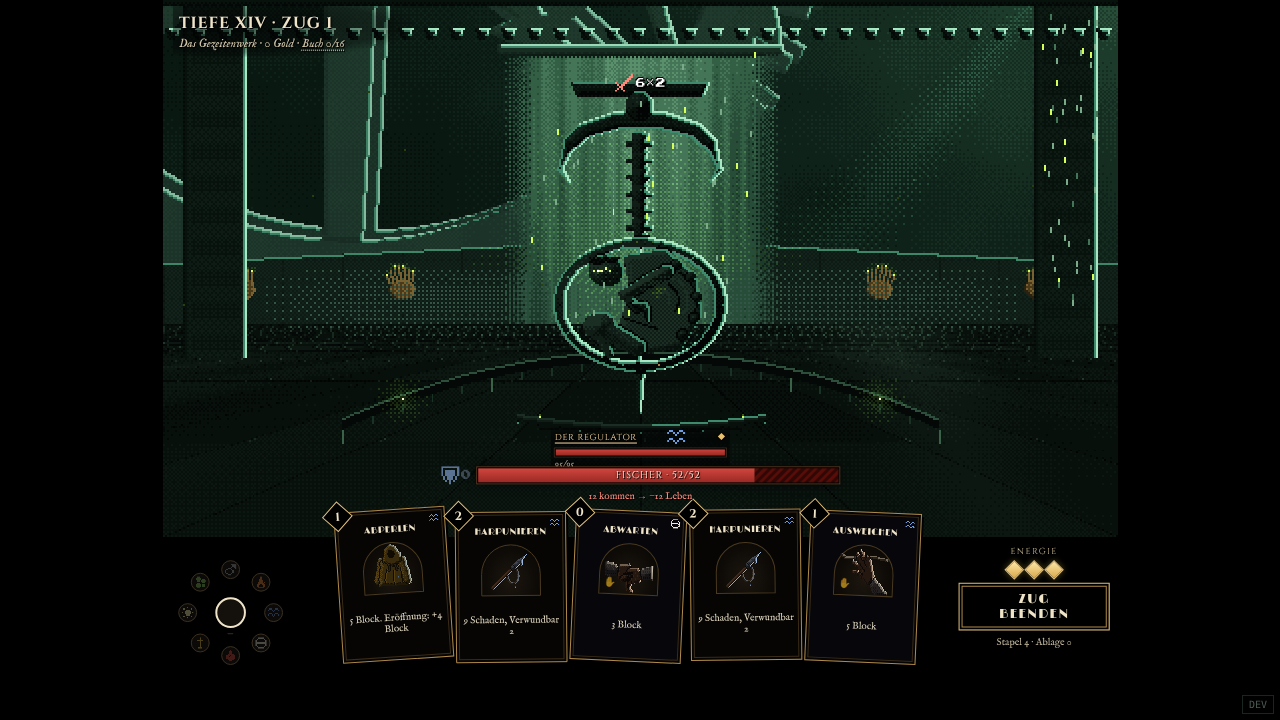
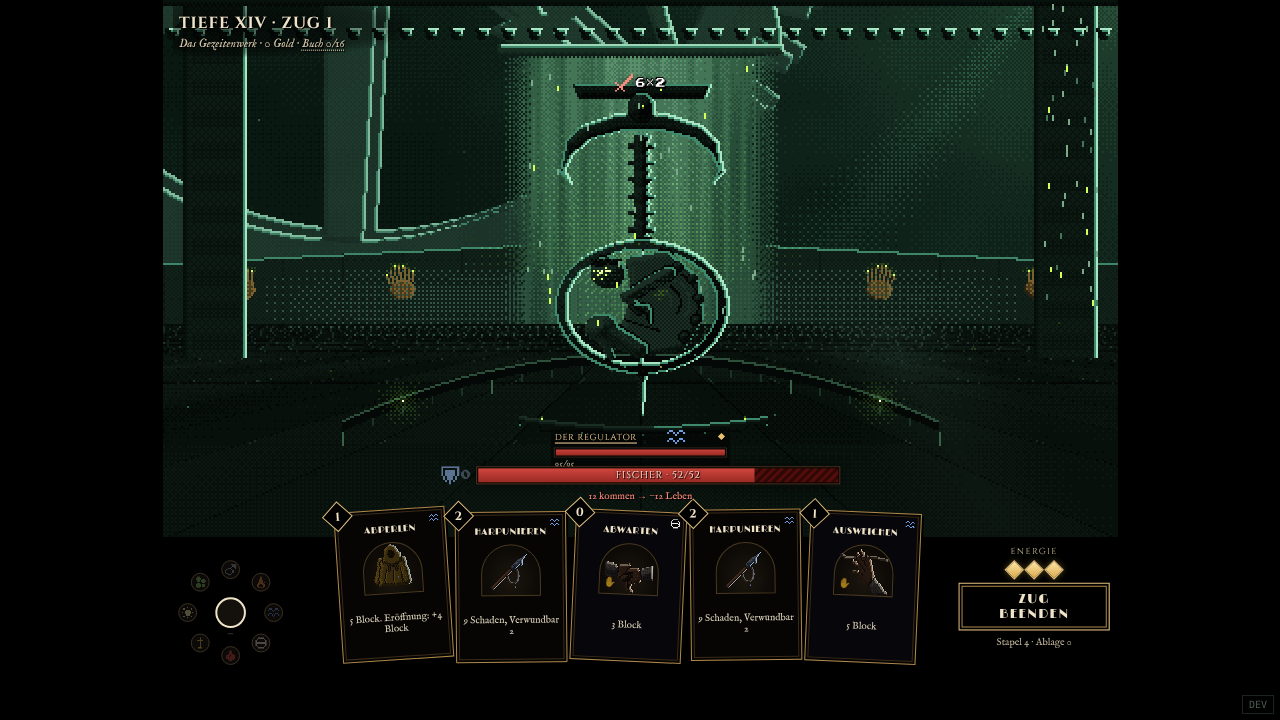
Kern: Pendel-Gegner (schwingt zwischen zwei Reihen, gleitet weich), Format ergänzt
Claude-Session: https://claude.ai/code/session_01TghvEfjLh3w7y1uAeKR46M

diff --git a/prototype/js/core/combat.js b/prototype/js/core/combat.js
@@ -12,7 +12,7 @@ function mkEnemy(id,i){const f0=FOES[id];if(!f0)throw new Error('Unbekannter Geg
  const tief=(f.rang||'normal')==='normal';const sc=(tief?1+BAL.enemy_scaling.hp_per_depth*(d-1):1)*(1+ST2.hp_je_stufe*st),as=(tief?Math.floor((d-1)/BAL.enemy_scaling.atk_every_n_depths):0)+(st>=2?Math.floor(st/ST2.atk_alle_n_stufen):0);const hp=Math.round(f.hp*sc*(tief?(BAL.enemy_scaling.hp_faktor||1):(BAL.enemy_scaling.waechter_faktor||1)));
  const r=rs('kampf');
  return{uid:++uidc,id,n:f.n,spr:f.spr||f.sprite||id,variant:f.variant,sprite:f.rang==='boss'?(f.sprite||null):f.varianten?r.pick(f.varianten):(f.sprite||null),rang:f.rang||'normal',weak:f.weak,hp,max:hp,block:0,str:0,burn:0,poison:0,weak2:0,
-  pi:f.rang==='boss'||f.rang==='waechter'?0:Math.floor(r.next()*f.pat.length),as,pat:f.pat.map(p=>({...p,v:p.t==='atk'?Math.max(1,Math.round(p.v*(BAL.enemy_scaling.atk_faktor||1)))+as:p.v})),besonders:f.besonders||null,kniff:f.kniff||null,kniffe:f.kniffe||null,vuln:0,phase:0,turns:0,...kniffMuster(f,as)};}
+  pi:f.rang==='boss'||f.rang==='waechter'?0:Math.floor(r.next()*f.pat.length),as,pat:f.pat.map(p=>({...p,v:p.t==='atk'?Math.max(1,Math.round(p.v*(BAL.enemy_scaling.atk_faktor||1)))+as:p.v})),besonders:f.besonders||null,kniff:f.kniff||null,kniffe:f.kniffe||null,pendel:!!f.pendel,vuln:0,phase:0,turns:0,...kniffMuster(f,as)};}
 // „Der, der vor dir kam“ (Ufer unten): Figur und Items deines letzten verlorenen Runs (Meta), sonst eine Figur per Seed.
 // Sein Muster sind seine besten Karten, verstärkt (f.atk_faktor); die Beute ist eines seiner Items.
 function vorgaengerDef(f){const r=rs('kampf');let v=typeof Meta!=='undefined'&&!S.dev?Meta.get().vorgaenger:null;
@@ -244,7 +244,10 @@ function endTurn(){
   Bus.emit('changed');wait(680,step);
  };wait(300,step);}
 // Besonderheiten der Wächter und des Bosses nach dem Gegnerzug
-function specials(){for(const en of alive()){const b=en.besonders;if(!b)continue;
+function specials(){for(const en of alive()){
+ // Pendel (Regulator): schwingt jeden Zug auf die andere Seite und zwischen zwei Tiefenreihen
+ if(en.pendel){const l=en.turns%2===1;en.x=l?.3:.7;en.reihe=l?1:2;Bus.emit('kniff',{e:en,why:`${en.n} schwingt nach ${l?'links hinten':'rechts vorn'}`});}
+ const b=en.besonders;if(!b)continue;
  if(b.art==='ruft'&&FOES[b.gegner]&&en.turns%(b.alle||3)===0&&alive().length<4){const add=mkEnemy(b.gegner);add.x=rs('aufstellung').pick([.16,.84,.3,.7]);add.reihe=rs('aufstellung').pick([0,1]);S.enemies.push(add);Bus.emit('enemy_spawn',{e:add,why:`${en.n} ruft ${add.n} (alle ${b.alle||3} Züge)`});}
  if(b.art==='schwach_wechsel'&&b.stoffe){en.weak=b.stoffe[en.turns%b.stoffe.length];Bus.emit('enemy_status',{e:en,status:'schwach',why:`${en.n} wechselt die Schwachstelle: jetzt ${ST[en.weak].n}`});}
  if(b.art==='phasen'&&b.ruft){const R2=typeof b.ruft==='string'?{gegner:b.ruft,alle:3,anzahl:1}:b.ruft;if(FOES[R2.gegner]&&en.phase>=1&&en.turns%(R2.alle||3)===0){for(let k=0;k<(R2.anzahl||1)&&alive().length<4;k++){const add=mkEnemy(R2.gegner);add.x=rs('aufstellung').pick([.14,.86,.28,.72]);add.reihe=0;S.enemies.push(add);Bus.emit('enemy_spawn',{e:add,why:`${en.n} ruft ${add.n} (Phase ${en.phase+1}, alle ${R2.alle||3} Züge)`});}}}}}

diff --git a/tools/icons/lib.js b/tools/icons/lib.js
@@ -60,13 +60,15 @@ const LICHT = {
 };
 
 // Palette eines Bildes: 0 leer; je Material 6 Farben (k0..k3, r1, r2); dann Lichter; dann Akzente a/b (4 Stufen + hell)
-function palette(st = [], rar = 'gewoehnlich') {
+// opt.hg: Handgriff-Bilder sind Szenen auf dunklem Grund: wärmere, hellere Haut und kräftigeres Randlicht in der Familienfarbe
+const HAUT_HG = { body: ['#160d08', '#2b190e', '#45291a', '#653f26'], hell: '#ffd4a4' };
+function palette(st = [], rar = 'gewoehnlich', opt = {}) {
   const glanzA = stoffFarbe(st[0]), glanzB = stoffFarbe(st[1] || st[0]);
-  const rimStaerke = rar === 'selten' ? 0.72 : rar === 'reliquie' ? 0.55 : 0.6;
+  const rimStaerke = opt.hg ? 0.72 : rar === 'selten' ? 0.72 : rar === 'reliquie' ? 0.55 : 0.6;
   const farben = [null], namen = [''], idx = {}, matBase = {};
   const add = (n, c) => { idx[n] = farben.length; namen.push(n); farben.push(c); };
   for (const m of MAT_NAMEN) {
-    const M = MAT[m]; matBase[m] = farben.length;
+    const M = opt.hg && m === 'haut' ? HAUT_HG : MAT[m]; matBase[m] = farben.length;
     let r2 = mix(M.hell, glanzA, rimStaerke);
     if (rar === 'reliquie') r2 = mix(r2, '#ffd890', 0.3);
     const r1 = mix(M.body[3], mix(M.hell, glanzA, 0.75), 0.42);
@@ -342,7 +344,7 @@ function reliquieGlanz(buf, W, H, pal) {
 function bauen(def, o = {}) {
   const W = def.w || 48, H = def.h || 48;
   const st = o.st ?? def.st ?? [], rar = o.rar ?? def.rar ?? 'gewoehnlich';
-  const pal = palette(st, rar);
+  const pal = palette(st, rar, { hg: H === 32 });
   const A = { gewehr, glutHaufen, armGruppen, pfad, E, C, Pg, chain, glied, saum, achse, apg, acap, ring, kurve, hand, faust, perlen, kettenglieder, zahnrad, mantel, rad, r: Math.round, PI: Math.PI, sin: Math.sin, cos: Math.cos, mix, st, rar, W, H };
   AUTO.length = 0;
   const res = def.form(A, { st, rar });

diff --git a/prototype/js/scenes/buehne.js b/prototype/js/scenes/buehne.js
@@ -34,7 +34,7 @@ function visOf(e){let v=BU.vis.get(e.uid);if(!v){v={hit:0,kx:0,lunge:0,dying:0,g
 // Position eines Gegners in der Szene (Fußpunkt, Größe), aus Aufstellung und Reihen der Szene
 function enemyBox(e){const sz=BU.sz||szeneHolen();const rh=sz.reihen[e.reihe??2]||sz.reihen[2];const sp=e.sprite&&SPRITES[e.sprite];
  let w=96,h=120;if(sp&&sp.meta){w=sp.meta.w;h=sp.meta.h;}else if(e.spr==='boss'){w=160;h=140;}else{w=64;h=80;}
- const sk=e.rang==='normal'?rh.skala:1;return{x:Math.round(e.x*SW),y:rh.y,w:Math.round(w*sk),h:Math.round(h*sk),sk,nebel:rh.nebel,kopf:sp&&sp.meta&&sp.meta.kopf!=null?rh.y-Math.round((sp.meta.fuss[1]-(Array.isArray(sp.meta.kopf)?sp.meta.kopf[1]:sp.meta.kopf))*sk):rh.y-Math.round(h*sk*.92)};}
+ const sk=e.rang==='normal'||e.pendel?rh.skala:1;if(e.pendel&&!FAST){e.xa=e.xa==null?e.x:e.xa+(e.x-e.xa)*.06;}const ex=e.pendel&&e.xa!=null?e.xa:e.x;return{x:Math.round(ex*SW),y:rh.y,w:Math.round(w*sk),h:Math.round(h*sk),sk,nebel:rh.nebel,kopf:sp&&sp.meta&&sp.meta.kopf!=null?rh.y-Math.round((sp.meta.fuss[1]-(Array.isArray(sp.meta.kopf)?sp.meta.kopf[1]:sp.meta.kopf))*sk):rh.y-Math.round(h*sk*.92)};}
 const FX={
  pos(e){return enemyBox(e);},
  hit(e,d,col,wer){if(!e)return;const W=BAL.wucht||{},k=wer==='eigen'?(W.eigen||1):(W.gegner||1);const v=visOf(e);const p=enemyBox(e);v.hit=.11;v.kx=Math.min(10,(W.rueckstoss||4)*k+d/4);v.anim='treffer';v.at=0;burst(p.x,p.y-p.h*.55,col||'#c8483a',Math.min(28,4+d)*k|0,1.5*k);

diff --git a/docs/auftrag-2/biome/gezeitenwerk.md b/docs/auftrag-2/biome/gezeitenwerk.md
@@ -43,7 +43,7 @@ Grundform: **der Eingriff**. Große Kreisbögen (angeschnittene Räder) schneide
 - **Falsches Detail:** Abdrücke auf beiden Kränzen, dort wo man ein Rad mit der Hand drehen würde, wenn man so groß wäre.
 
 ### Wächter-Szene: Die Hemmung
-- **Horizont** y 162, Untersicht. Hinter der Mitte das Hemmungsrad mit Sägezähnen (der Anker des Regulators greift genau hinein), links oben riesig das Hauptrad. Eine niedrige Wand mit sechs Abdrücken in einer Reihe, zwei Pfeiler, oben eine Zahnstange.
+- **Horizont** y 162, Untersicht. Direkt hinter dem Pendel fällt Meerwasser als glatte, leuchtende Wand senkrecht herab: die ruhige helle Zone, vor der der Regulator als dunkle Silhouette steht. Darüber ragen nur die unteren Sägezähne des Hemmungsrads herein (der Anker greift hinein). Das Hauptrad links oben ist abgedunkelt und sitzt nicht mehr hinter dem Wächter. Eine niedrige Wand mit vier Abdrücken links und rechts der Wasserwand, zwei Pfeiler, oben eine Zahnstange.
 - **Am Boden** der Gradbogen: eine Rinne mit Teilstrichen, über die die Spitze des Pendels streicht. Seine beiden Enden leuchten; das sind die zwei Reihen, zwischen denen der Regulator schwingt.
 
 ### Die anderen Arten
@@ -167,14 +167,14 @@ Je Punkt 1–5: Silhouette / Licht / Pixel / Konzept / Biom / Im Spiel. Gesamt =
 | Kanalaal | 4 | 4 | 4 | 4 | 4 | 4 | **4** | Das S mit der Hand oben ist eigen und unheimlich, die gekrümmten Finger lesen sich als Hand; Segmente, Bauchband und Seitenlinie gliedern den Leib. Der Leib bleibt eine gleichmäßige Röhre, und der Trog ist ein schlichter Kasten. |
 | Ölerin | 4 | 4 | 4 | 4 | 4 | 4 | **4** | Kanne mit Schnabel auf dem langen Hals ist eine klare, neue Silhouette; Falten, Grate und Ölstreifen gliedern den Umhang. Der Umhang ist trotzdem die größte dunkle Fläche des Bioms, und der Lappen in der Hand ist kaum zu sehen. |
 | Gewicht | 5 | 5 | 4 | 5 | 5 | 4 | **4** | Das siebenkantige Lot mit der schlaffen Kette ist die stärkste normale Figur: jede Fläche hat eigene Fase, der Abdruck mit sieben Fingern ist das falsche Detail auf dem Körper. Die Abdrücke sind im Spiel klein. |
-| Regulator | 5 | 4 | 4 | 5 | 5 | 4 | **4** | Anker, Wirbelstange und die hohle Linse mit dem Zusammengerollten sind groß und eindeutig; der Ausschlag auf dich ist die Absicht in Bewegung. Der Körper in der Linse ist im Spiel dunkel auf dunkel und liest sich erst beim zweiten Blick. |
+| Regulator | 5 | 4 | 4 | 5 | 5 | 4 | **4** | Anker, Wirbelstange und die hohle Linse mit dem Zusammengerollten sind groß und eindeutig; der Ausschlag auf dich ist die Absicht in Bewegung. Nach der Nacharbeit trägt er außen an Anker, Krallen und Linse zwei Pixel Randlicht zur Lichtseite und eine Linie ringsum, und der Körper in der Linse ist heller und hat einen Phosphor-Schimmer. Im Spiel steht er jetzt klar vor der Wasserwand (vorher Note 3 im Spiel: dunkel auf dunkel vor dem Hauptrad). Der Körper bleibt die dunkelste Stelle der Linse. |
 | Hintergrund V0 Hauptrad | 4 | 4 | 4 | 5 | 5 | 4 | **4** | Der Bogen mit Häuserzähnen, die winzige Bühne mit Lampe und die blanken Abdrücke erzählen Maßstab und falsches Detail ohne Text. Der Boden vorne ist eine ruhige dunkle Fläche (dort liegt die UI). |
 | Hintergrund V1 Schleusen | 4 | 4 | 4 | 4 | 5 | 4 | **4** | Klarer frontaler Aufbau, Handräder mit sieben Speichen, Kanäle als Fluchtlinien. Die Wand ist etwas gleichförmig. |
 | Hintergrund V2 Im Eingriff | 4 | 4 | 4 | 4 | 4 | 4 | **4** | Zwei Räder mit dem Zulauf genau im Eingriff, eigener Aufbau gegenüber V0/V1. Die Räder füllen viel Fläche hinter den Figuren, der Steg wird kaum gelesen. Schwächste Szene, zweimal umgebaut. |
-| Hintergrund Wächter | 5 | 4 | 4 | 5 | 5 | 4 | **4** | Anker vor dem Hemmungsrad und der Gradbogen am Boden sind genau die Mechanik des Wächters; die Reihe der Abdrücke trägt das falsche Detail. Die Zahnstange oben liest sich klein wie eine gepunktete Linie. |
+| Hintergrund Wächter | 5 | 5 | 4 | 5 | 5 | 4 | **4** | Die leuchtende Wasserwand hinter dem Pendel trennt Figur und Hintergrund wie der Nebel hinter den Favoriten, der Anker greift ins Hemmungsrad, der Gradbogen liegt am Boden; die Abdrücke tragen das falsche Detail. Die Zahnstange oben liest sich klein wie eine gepunktete Linie. |
 | **Hintergrund gesamt** | | | | | | | **4** | |
 
-Nichts unter 4. Überarbeitet wurden unterwegs: Ölerin (Block mit Stock → schmaler Leib mit Hals und Kanne, dann Kanne größer), Kanalaal (Finger wie ein Fächer → Hand mit Gelenken, Flosse als durchgehender Saum, Segmente), Regulator (Linse und Körper zu klein), Gewicht (Kette in Stücken, Abdruck unlesbar), alle Leerlauf-Animationen (kriechender Dither: jetzt Anker bzw. ganzzahlige Verschiebung), Abdrücke im Hintergrund (dunkle Flecken → blank gegriffene Bronze), Hauptrad (Speichenlöcher hinter den Figuren zu unruhig → volle Scheibe mit Rillen), Variante 2 (zweimal umgebaut), Hebel vorne (deckte Gegner in der ersten Reihe).
+Nichts unter 4. Überarbeitet wurden unterwegs: Ölerin (Block mit Stock → schmaler Leib mit Hals und Kanne, dann Kanne größer), Kanalaal (Finger wie ein Fächer → Hand mit Gelenken, Flosse als durchgehender Saum, Segmente), Regulator (Linse und Körper zu klein; nach der Abnahme-Rückmeldung kräftigeres Randlicht außen und hellerer Körper, in der Szene die Wasserwand hinter ihm statt des Hauptrads), Gewicht (Kette in Stücken, Abdruck unlesbar), alle Leerlauf-Animationen (kriechender Dither: jetzt Anker bzw. ganzzahlige Verschiebung), Abdrücke im Hintergrund (dunkle Flecken → blank gegriffene Bronze), Hauptrad (Speichenlöcher hinter den Figuren zu unruhig → volle Scheibe mit Rillen), Variante 2 (zweimal umgebaut), Hebel vorne (deckte Gegner in der ersten Reihe).
 
 ## Offene Schwächen
 

diff --git a/docs/auftrag-2/paket-format.md b/docs/auftrag-2/paket-format.md
@@ -66,7 +66,7 @@ Wie `prototype/data/foes.json` (siehe `prototype/data/README.md`), dazu neu:
 
 - Werte: normale Gegner `hp` 12–32 (auf Tiefe 1; die Tiefe skaliert), Angriffe 3–10; Wächter `hp` 45–80 (skaliert nicht), Muster 4–5 Züge.
 - `stimme`: ein vorhandener Gegnerstimmen-Schlüssel aus `music.js` (`netzflickerin, tiefling, schmuggler, hirte, torfstecherin, nest, chorknabe, kultist, ertrunkener, schlundtraeger, salzlaeufer, grabwaechter, bote, schatten, mumie, rufer, eisgesicht, nachgeher, augen, ruft`) oder ein Wächter-Schlüssel. Passend zum Konzept wählen.
-- `kniff` (genau einer, mit `why` für den Dev-Modus): `dornen {v}`, `loeschen`, `rein`, `brecher`, `kleinvieh` (nur über das Muster), `abschrift {n}` (n unspielbare Karten in dein Deck), `waechst {v}` (jeden Zug +v Stärke), `schuetzer {v}` (gibt Verbündeten v Block), `ruf {gegner, alle}`, `wechsel {stoffe:[…]}`, `ansage {zuege, v}` (lädt, dann großer Schlag), `nachlass {was: "explodiert"|"teilt"|"item", v, gegner}`, `verborgen` (Absicht nur halb sichtbar), `heiler {v}` (heilt Verbündete), `einfrieren` (eine Handkarte pro Zug wird für den Zug unspielbar), `verstopfen {n}` (wie abschrift, aber auf die Hand), `teurer {v}` (eine Handkarte kostet diesen Zug v mehr), `kopie {n?}` (spielt deine zuletzt gespielte Karte gegen dich: Angriff trifft dich, Block schützt ihn; mit `n` mischt er zusätzlich n Abschriften in deinen Ablagestapel), `takt {v}` (abwechselnd: Schlag gibt allen Gegnern v Block, dazwischen ist er verwundbar), `voraus` (spielt deine nächste Karte vom Stapel vor dir und ist schwach gegen den Stoff, den du in diesem Kampf am wenigsten gespielt hast). Wächter haben dazu wie bisher `besonders` (`ruft`, `schwach_wechsel`, `phasen`).
+- `kniff` (genau einer, mit `why` für den Dev-Modus): `dornen {v}`, `loeschen`, `rein`, `brecher`, `kleinvieh` (nur über das Muster), `abschrift {n}` (n unspielbare Karten in dein Deck), `waechst {v}` (jeden Zug +v Stärke), `schuetzer {v}` (gibt Verbündeten v Block), `ruf {gegner, alle}`, `wechsel {stoffe:[…]}`, `ansage {zuege, v}` (lädt, dann großer Schlag), `nachlass {was: "explodiert"|"teilt"|"item", v, gegner}`, `verborgen` (Absicht nur halb sichtbar), `heiler {v}` (heilt Verbündete), `einfrieren` (eine Handkarte pro Zug wird für den Zug unspielbar), `verstopfen {n}` (wie abschrift, aber auf die Hand), `teurer {v}` (eine Handkarte kostet diesen Zug v mehr), `kopie {n?}` (spielt deine zuletzt gespielte Karte gegen dich: Angriff trifft dich, Block schützt ihn; mit `n` mischt er zusätzlich n Abschriften in deinen Ablagestapel), `takt {v}` (abwechselnd: Schlag gibt allen Gegnern v Block, dazwischen ist er verwundbar), `voraus` (spielt deine nächste Karte vom Stapel vor dir und ist schwach gegen den Stoff, den du in diesem Kampf am wenigsten gespielt hast). Wächter haben dazu wie bisher `besonders` (`ruft`, `schwach_wechsel`, `phasen`). Zusätzlich möglich: `kniffe: [ … ]` (weitere Kniffe neben `kniff`, wirken bei Zugbeginn und nach dem Gegnerzug) und `pendel: true` (schwingt jeden Zug zwischen links hinten und rechts vorn).
 - Sprites: 96 × 120 (normal, Varianten `_a`, `_b`), Wächter bis 160 × 180, Finale bis 240 × 220. Sheets wie bisher (idle 4, angriff 4, treffer 2, tod 6). `quelle`: `skript` (Weg A), `ki:<dienst>` oder `mix`.
 
 ### Items (`items`)
